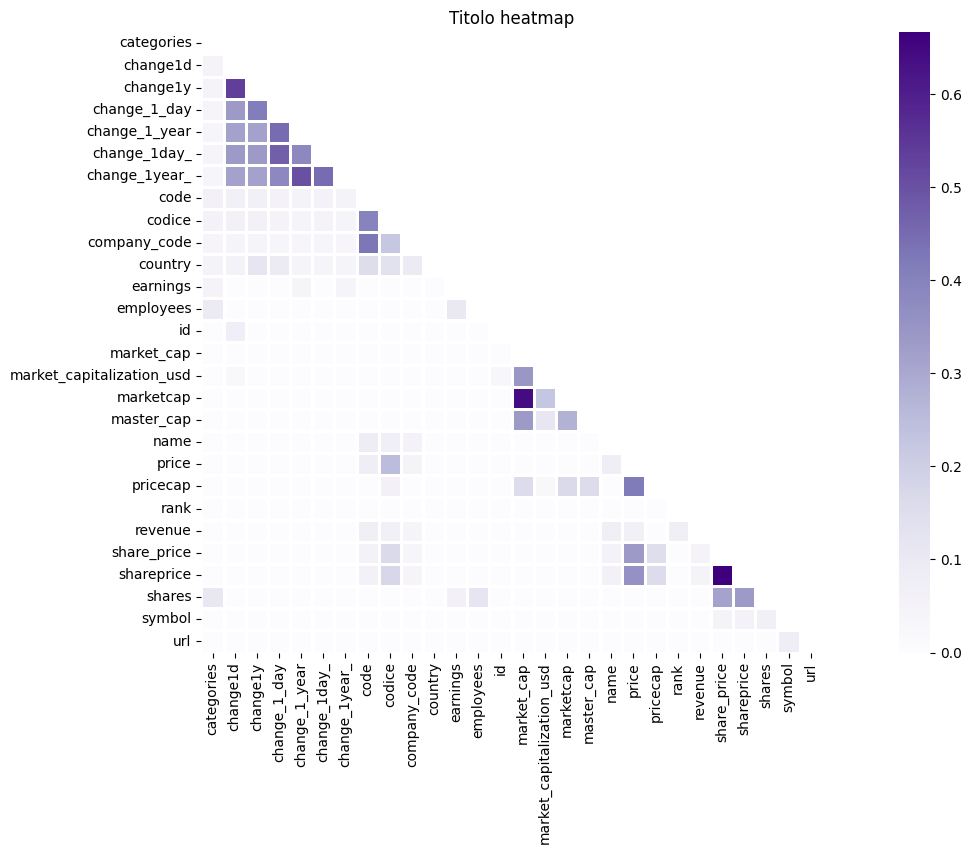
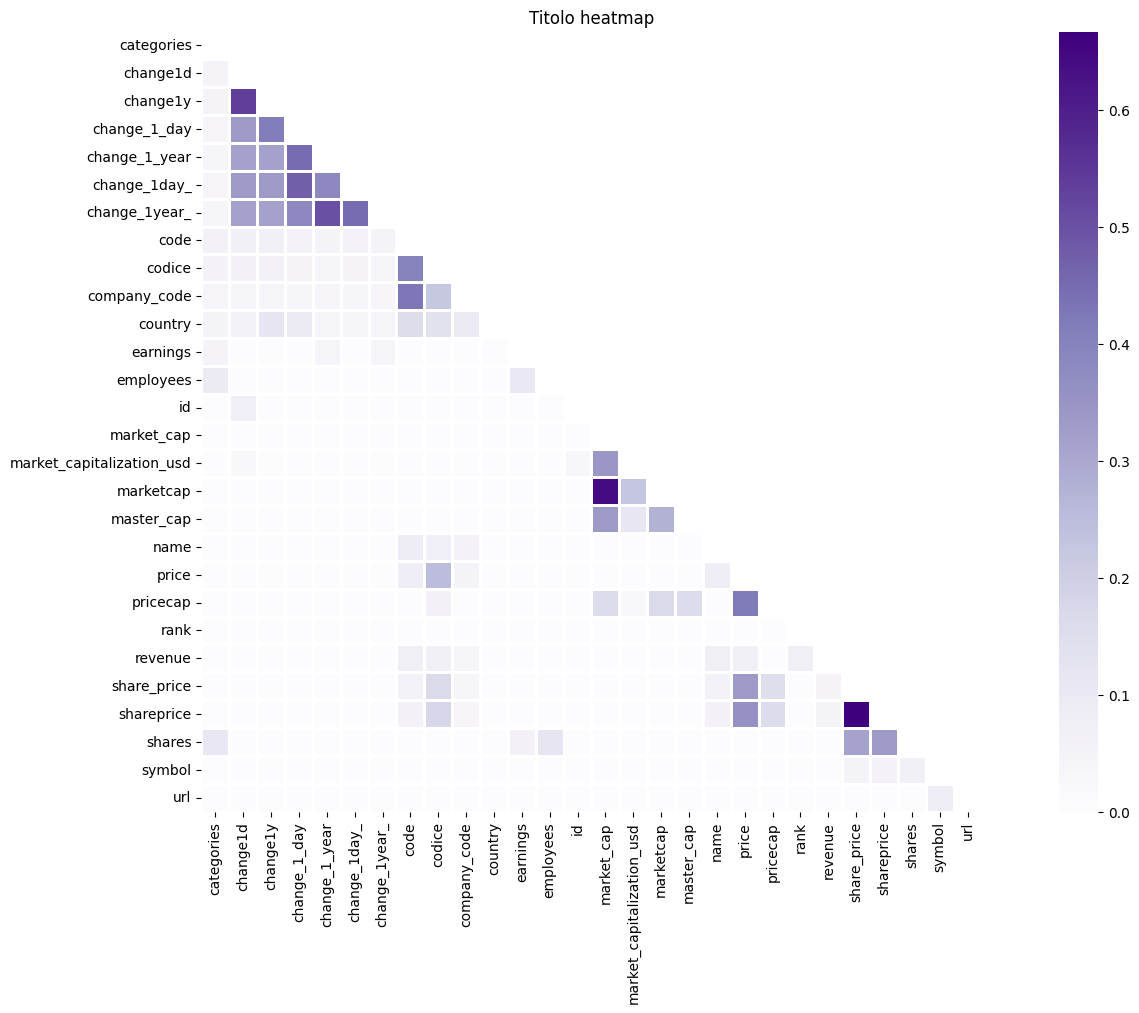
matrice correlazione per ogni dataset

diff --git a/Project/Exploration/explore_single_SRC.py b/Project/Exploration/explore_single_SRC.py
@@ -85,9 +85,9 @@ class Explorer:
 
         return matrice_correlazione
     
-    import ngram
-    
-    def compute_sim_ngrams(inverted_index):
+   
+
+    def compute_sim_ngrams(self,inverted_index):
         N=3
         list_of_tokens=sorted(inverted_index.keys())
     
@@ -97,7 +97,7 @@ class Explorer:
 
         #Matrix = np.zeros((len(List1),len(List2)),dtype=np.int_)
         correlazione=dict()
-
+        from ngram import NGram
         for i in range(0,len(List1)):
             correlazione[List1[i]]=[]
             for j in range(0,len(List2)):
@@ -105,7 +105,7 @@ class Explorer:
                 element2=List2[j]
             
                 
-                compute_dist=ngram.NGram.compare(element1,element2)
+                compute_dist=NGram.compare(element1,element2,N=3)
                 print('eval',List1[i],List2[j],'->',compute_dist)
             
                 correlazione[List1[i]].append(compute_dist)
@@ -115,6 +115,26 @@ class Explorer:
 
         return matrice_correlazione
 
+   
+   
+    def plot_correlation(self,df, base_path,name,threshold=0): # Define cmap for heatmap
+        import seaborn as sns
+        import matplotlib.colors
+        import matplotlib.pyplot as plt
+        mask1 = np.triu(np.ones_like(df, dtype=bool))# Generate mask under threshold
+        if threshold > 0:
+            mask2 = df < threshold
+        else:
+            mask2 = df < 0 # Plot heatmap and save fig
+        fig, ax = plt.subplots(figsize=(20, 20))
+        title = "Titolo heatmap"
+        file_name = base_path + "\\" + "".join(title.lower()).replace(" ", "_")
+        ax.set_title(title)
+        # ax.set_xlabel("Token")
+        # ax.set_ylabel("Token")
+        heatmap = sns.heatmap(df, ax=ax, mask=(mask1), fmt=".0f",linewidths=2, cmap="Purples", square=True, )
+        plt.show()
+        fig.savefig(os.path.join(base_path,name), bbox_inches='tight', transparent=True)
 
     def explore_single_data(self, base_path, src):
 
@@ -151,9 +171,22 @@ class Explorer:
         
         self.write_infos_on_file(file_inverted_index,base_path,string)
 
+        matrice_correlazioneNgrams_file='matrice_ngrams'
+        matrice_levi='matrice_levi'
+
         correlation_matrix_levi=self.correlation_metrix_Levi(inverted_index)
 
         correlation_matrix_levi.to_csv(os.path.join(base_path,file_matrice_correlazione))
+
+            #Ngrams
+    
+        matrice_correlazioneNgrams=self.compute_sim_ngrams(inverted_index)
+
+        matrice_correlazioneNgrams.to_csv(os.path.join(base_path,matrice_correlazioneNgrams_file))
+
+        maxValues = max(matrice_correlazioneNgrams.max(skipna=False))
+        
+        self.plot_correlation(matrice_correlazioneNgrams,base_path, matrice_correlazioneNgrams_file,0.4)
 
 
 
